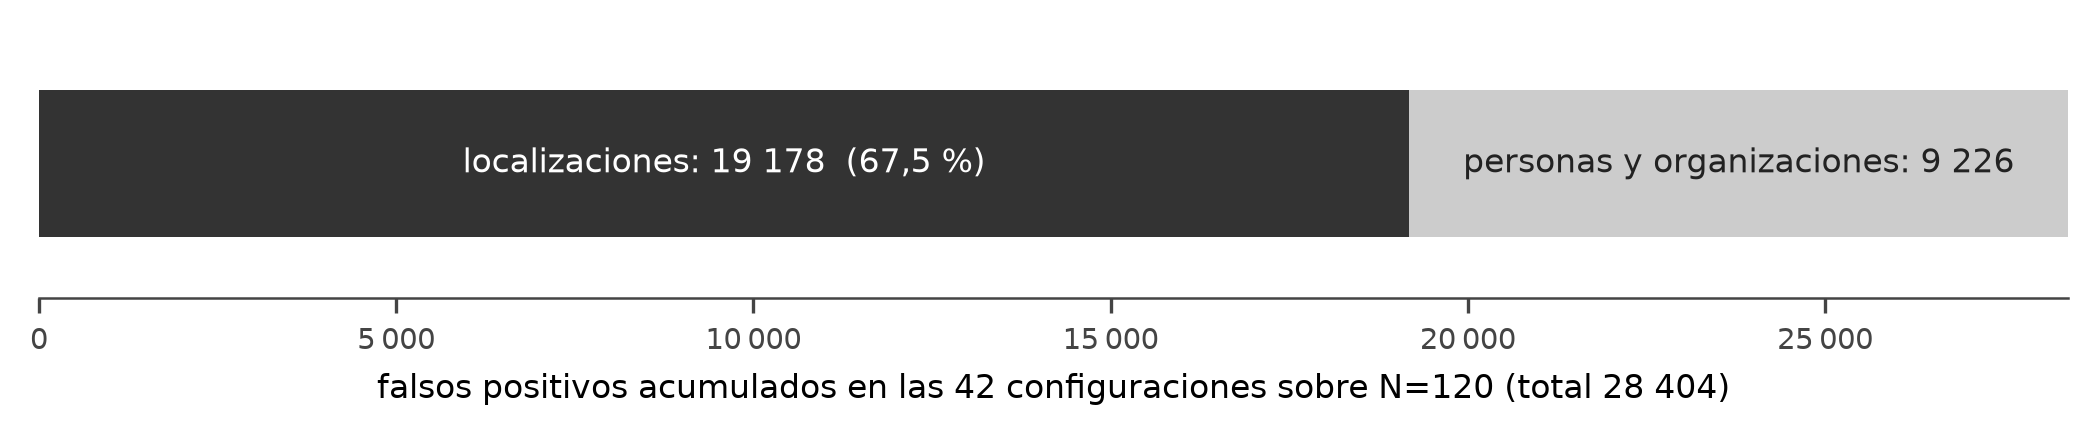
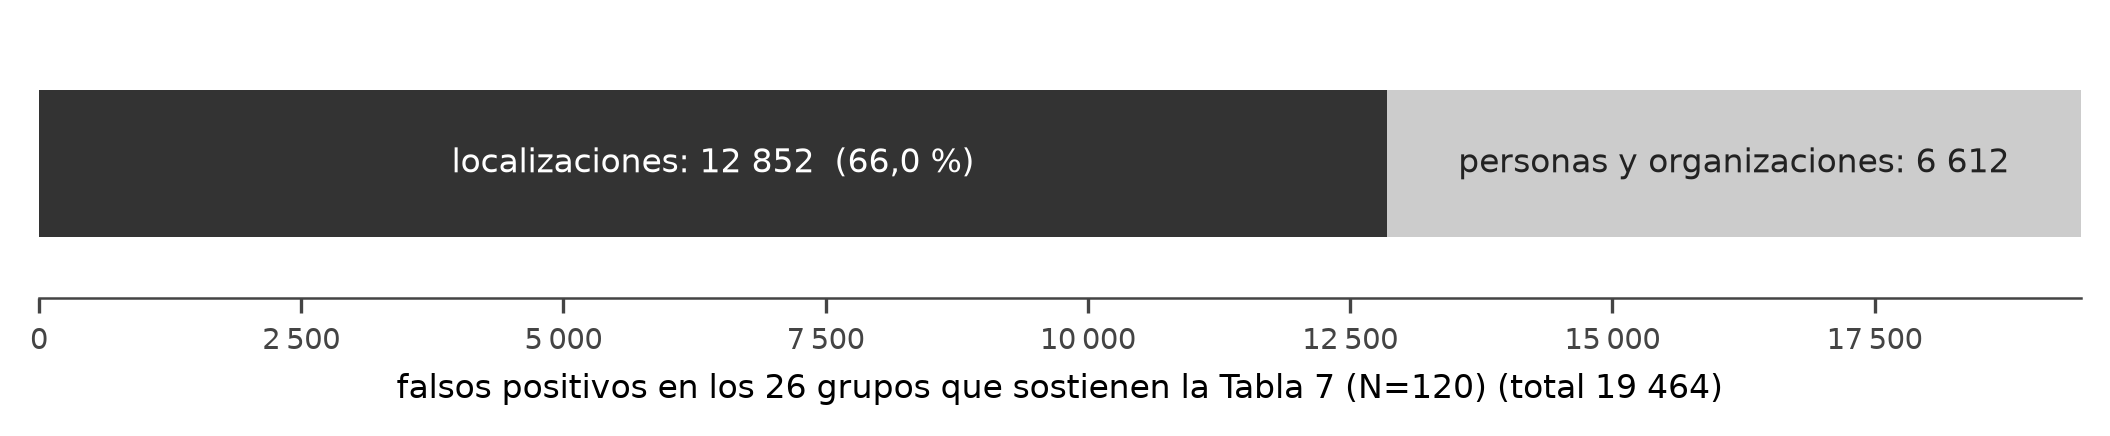
fix(thesis): unificar la composicion de los falsos positivos, que daba dos cifras
Al inventariar que afirmaciones del informe dependen de los datos que la
re-corrida va a sustituir aparecio que el documento decia dos cosas distintas
sobre la misma magnitud: 19.178 de 28.404 (67,5 %) en 3.3, en 7.2 y en la leyenda
de la Figura 1, y 20.946 de 32.201 (65,0 %) en el Anexo I.

Ninguna de las dos describe el estudio publicado. La del anexo es correcta para
lo que dice medir, pero cubre 42 configuraciones e incluye corridas despues
declaradas invalidas, entre ellas la de gemma4:12b-mlx con KB RAG que el modo de
razonamiento arruino, con F1 14,60. La otra no se ha podido reproducir desde
ningun artefacto del repositorio.

Recalculada sobre los 26 grupos que sostienen la Tabla 7, tomando para cada uno
la corrida que el consolidado usa realmente y con los 26 cubiertos sin omitir
ninguno: 12.852 de 19.464 falsos positivos, el 66,0 %, proceden de las
localizaciones, cuya suma de aciertos y omisiones vale cero. Queda trazable en
results/COMPOSICION_FP_20260908 con el desglose por grupo.

Corregidos 3.3 y 7.2, regenerada la Figura 1, y el Anexo I conserva su 65,0 % con
una glosa que explica que cubre otra poblacion. Las dos son ciertas sobre lo que
miden; lo que faltaba era decirlo.

Quedan registrados dos tropiezos propios del calculo, porque ilustran el riesgo:
la primera version sumaba cero de las corridas cuya estructura no reconocia y
acerto de casualidad, y al diagnosticarlo imprimi las claves de un registro
[…]

diff --git a/tools/generar_figuras_informe.py b/tools/generar_figuras_informe.py
@@ -95,18 +95,19 @@ def figura_1():
 def figura_2():
     """Composicion de los falsos positivos del estudio (§4.4)."""
     fig, ax = plt.subplots(figsize=(7.1, 1.5))
-    loc, total = 19178, 28404
+    # Cifras de results/COMPOSICION_FP_20260908/, sobre los 26 grupos que sostienen la Tabla 7.
+    loc, total = 12852, 19464
     otros = total - loc
     ax.barh([0], [loc], color='#333333', edgecolor='none', height=0.55)
     ax.barh([0], [otros], left=[loc], color='#cccccc', edgecolor='none', height=0.55)
-    ax.text(loc / 2, 0, f'localizaciones: {loc:,}'.replace(',', ' ') + '  (67,5 %)',
+    ax.text(loc / 2, 0, f'localizaciones: {loc:,}'.replace(',', ' ') + '  (66,0 %)',
             ha='center', va='center', color='white', fontsize=8)
     ax.text(loc + otros / 2, 0, f'personas y organizaciones: {otros:,}'.replace(',', ' '),
             ha='center', va='center', color='#222222', fontsize=8)
     ax.set_xlim(0, total)
     ax.set_ylim(-0.5, 0.5)
     ax.set_yticks([])
-    ax.set_xlabel(f'falsos positivos acumulados en las 42 configuraciones sobre N=120 '
+    ax.set_xlabel(f'falsos positivos en los 26 grupos que sostienen la Tabla 7 (N=120) '
                   f'(total {total:,})'.replace(',', ' '), fontsize=8)
     for s in ('top', 'right', 'left'):
         ax.spines[s].set_visible(False)

diff --git a/doc/organized/Hito_5_Tarea4_Informe_Final/2026-07-04_Borrador-Informe-Final-Tesina.md b/doc/organized/Hito_5_Tarea4_Informe_Final/2026-07-04_Borrador-Informe-Final-Tesina.md
@@ -224,11 +224,11 @@ La elección del umbral es un compromiso: por debajo se admiten emparejamientos 
 
 Sobre esa base se calculan precisión, exhaustividad y F1 por artículo, que después se promedian, y una **tasa de alucinación** que mide algo distinto de las anteriores: no compara con la anotación de referencia sino con el **texto de origen**. Una entidad se considera alucinada cuando no aparece literalmente en el artículo y, además, su mejor similitud contra las ventanas deslizantes del texto (del mismo número de palabras que la entidad) queda por debajo de **70**, umbral deliberadamente más laxo que el 85 del emparejamiento. La distinción importa: una entidad correctamente extraída del artículo pero ausente de la anotación de referencia cuenta como falso positivo, no como alucinación, porque el modelo no la inventó. El módulo incorpora además la validación estadística: ANOVA de una vía para contrastar si las diferencias entre modelos y modos son significativas, pruebas post-hoc de Tukey HSD para identificar qué pares concretos difieren, intervalos de confianza al 95 % por grupo y un análisis de sensibilidad que recalcula las métricas excluyendo los artículos atípicamente largos, con el fin de comprobar que ningún resultado depende de unos pocos casos extremos.
 
-Un tercer límite, de naturaleza distinta a los anteriores porque no procede del cotejo sino del diseño, afecta a la comparabilidad de las cifras absolutas. Los prompts del sistema solicitan tres categorías de entidad, personas, organizaciones y localizaciones, mientras que los registros con los que se tomaron las medidas de este informe anotaban únicamente las dos primeras: el campo de localizaciones estaba vacío en los ciento veinte. Conviene precisar dónde se pierde, porque no es donde parece: CoNLL-2002, que aporta 105 de los 120 artículos, **sí anota localizaciones** —etiqueta cuatro tipos, personas, organizaciones, lugares y misceláneos—, y es el conversor del proyecto el que las descarta, al filtrar las etiquetas por `["PER", "ORG"]` durante el análisis y escribir después la lista de localizaciones como constante vacía. El defecto es de la cadena de preparación de datos, no de la anotación de origen. Como el evaluador puntúa las tres categorías, toda localización que el modelo devuelve se contabiliza como falso positivo, sin que exista ninguna forma de acertar en ella. El efecto no es menor: el **67,5 %** de los falsos positivos del estudio, 19 178 de 28 404, proceden de esa categoría, según recoge la Figura 1. Conviene subrayar que se trata de una penalización exclusivamente de precisión, porque al no haber localizaciones anotadas tampoco puede haber omisiones: la exhaustividad no varía en ninguna configuración. Por esa razón este informe acompaña cada resultado de una segunda medición, restringida a las categorías que el corpus efectivamente anota, que se obtiene reagregando los desgloses por tipo ya almacenados y no requiere repetir la inferencia. Las cifras originales se conservan íntegras junto a ella, de modo que el lector pueda juzgar el alcance de la corrección; la Tabla del Anexo I recoge ambas para las cuarenta y dos configuraciones medidas sobre el corpus N=120. El defecto está corregido en el corpus desde el 8 de septiembre de 2026: recuperadas de CoNLL-2002 las localizaciones que su anotación ya traía y anotados a mano los quince artículos restantes, el fichero pasa a tener 545 localizaciones en 119 de los 120 registros, y el único que queda sin ninguna no menciona ningún lugar. Las cifras de este informe son anteriores a esa corrección y se conservan tal como se midieron; sustituirlas exige volver a inferir, que es lo que hará la re-corrida pendiente.
+Un tercer límite, de naturaleza distinta a los anteriores porque no procede del cotejo sino del diseño, afecta a la comparabilidad de las cifras absolutas. Los prompts del sistema solicitan tres categorías de entidad, personas, organizaciones y localizaciones, mientras que los registros con los que se tomaron las medidas de este informe anotaban únicamente las dos primeras: el campo de localizaciones estaba vacío en los ciento veinte. Conviene precisar dónde se pierde, porque no es donde parece: CoNLL-2002, que aporta 105 de los 120 artículos, **sí anota localizaciones** —etiqueta cuatro tipos, personas, organizaciones, lugares y misceláneos—, y es el conversor del proyecto el que las descarta, al filtrar las etiquetas por `["PER", "ORG"]` durante el análisis y escribir después la lista de localizaciones como constante vacía. El defecto es de la cadena de preparación de datos, no de la anotación de origen. Como el evaluador puntúa las tres categorías, toda localización que el modelo devuelve se contabiliza como falso positivo, sin que exista ninguna forma de acertar en ella. El efecto no es menor: el **66,0 %** de los falsos positivos del estudio, 12 852 de 19 464, proceden de esa categoría, según recoge la Figura 1. La cifra cubre los veintiséis grupos que sostienen la Tabla 7 y está desglosada por grupo en `results/COMPOSICION_FP_20260908/`. Conviene subrayar que se trata de una penalización exclusivamente de precisión, porque al no haber localizaciones anotadas tampoco puede haber omisiones: la exhaustividad no varía en ninguna configuración. Por esa razón este informe acompaña cada resultado de una segunda medición, restringida a las categorías que el corpus efectivamente anota, que se obtiene reagregando los desgloses por tipo ya almacenados y no requiere repetir la inferencia. Las cifras originales se conservan íntegras junto a ella, de modo que el lector pueda juzgar el alcance de la corrección; la Tabla del Anexo I recoge ambas para las cuarenta y dos configuraciones medidas sobre el corpus N=120. El defecto está corregido en el corpus desde el 8 de septiembre de 2026: recuperadas de CoNLL-2002 las localizaciones que su anotación ya traía y anotados a mano los quince artículos restantes, el fichero pasa a tener 545 localizaciones en 119 de los 120 registros, y el único que queda sin ninguna no menciona ningún lugar. Las cifras de este informe son anteriores a esa corrección y se conservan tal como se midieron; sustituirlas exige volver a inferir, que es lo que hará la re-corrida pendiente.
 
 ![Composición de los falsos positivos del estudio según la categoría de entidad](../../figuras/falsos-positivos.png)
 
-_Figura 1. Composición de los falsos positivos del estudio sobre N=120. Dos de cada tres proceden de una categoría que el corpus no anota y en la que, por tanto, ningún modelo podía acertar. Elaboración propia_
+_Figura 1. Composición de los falsos positivos del estudio sobre N=120, en los veintiséis grupos que sostienen la Tabla 7. Dos de cada tres proceden de una categoría que el corpus no anota y en la que, por tanto, ningún modelo podía acertar. Elaboración propia a partir de `results/COMPOSICION_FP_20260908/`_
 
 ## 4. Diseño experimental
 
@@ -512,7 +512,7 @@ De ahí se sigue tanto la explicación del fracaso de la primera versión como u
 8. Recuperación de las localizaciones que el conversor descarta (Prioridad Alta): los prompts del sistema solicitan
    tres categorías de entidad, personas, organizaciones y localizaciones, pero ninguno de los tres corpus anota
    la tercera. Como se explica en §3.3, eso convierte toda localización correctamente identificada en un falso
-   positivo, y de ahí procede el 67,5 % de los falsos positivos del estudio. La medición restringida a las dos
+   positivo, y de ahí procede el 66,0 % de los falsos positivos del estudio. La medición restringida a las dos
    categorías anotadas, que este informe publica en paralelo, corrige el efecto sin reejecutar inferencia, pero
    no sustituye a la solución de fondo. Y esa solución es más barata de lo que parece: para 105 de los 120
    artículos las localizaciones **ya están anotadas** en CoNLL-2002 y basta con dejar de descartarlas al
@@ -1086,5 +1086,5 @@ temperatura 0,1, tamaño de lote y los demás— coinciden en las ocho corridas 
 
 Tres advertencias de lectura antes de las cifras. Las columnas publicadas se toman del campo almacenado por registro, que es lo que publican las tablas del cuerpo, y las restringidas se recalculan desde el desglose por tipo. En `nemotron-mini:4b_baseline` los dos no cuadran en **siete de sus ciento veinte registros**, los que se reextrajeron fuera del arnés de lotes tras un fallo de contexto (§5.3.1), de modo que su columna restringida arrastra esa incoherencia y conviene leerla con esa reserva. Las dos primeras filas de `llama3.2:latest` reproducen **la misma medición** bajo dos etiquetas de corrida: coinciden en los siete valores y, comprobado registro a registro, en los aciertos y errores de los ciento veinte artículos, de modo que la tabla tiene cuarenta y dos filas pero cuarenta y una configuraciones distintas. Y las dos filas de `gemma4:12b-mlx` proceden de `afectados_thinking_n120_REMOTO` y no de `benchmark_n120_REMOTO`, porque esta última quedó averiada por el modo de razonamiento —sesenta y ocho y noventa y ocho de sus ciento veinte registros no recuperan ninguna entidad— y sus cifras no representan la capacidad del modelo.
 
-En conjunto, 20946 de los 32201 falsos positivos del estudio (65.0 %) proceden de la categoría no anotada. El mejor modelo local sobre este corpus, `gemma4:31b-mlx`, pasa de 62,67 % a **76,55 %** de F1 y supera el umbral de 70 % que fija la hipótesis sobre material periodístico mayoritariamente en español. La variante en la nube del mismo modelo conserva su ventaja (80,42 % frente a 76,55 %), de modo que la corrección **no** altera la conclusión sobre la comparación entre ejecución local y alojada.
+En conjunto, 20 946 de los 32 201 falsos positivos de estas **cuarenta y dos configuraciones** (65,0 %) proceden de la categoría no anotada. La cifra no coincide con el 66,0 % que da §3.3 porque cubre una población distinta: esta tabla incluye configuraciones que el estudio no publica, entre ellas corridas después sustituidas por inválidas. Ambas son ciertas sobre lo que dicen medir. El mejor modelo local sobre este corpus, `gemma4:31b-mlx`, pasa de 62,67 % a **76,55 %** de F1 y supera el umbral de 70 % que fija la hipótesis sobre material periodístico mayoritariamente en español. La variante en la nube del mismo modelo conserva su ventaja (80,42 % frente a 76,55 %), de modo que la corrección **no** altera la conclusión sobre la comparación entre ejecución local y alojada.
 

diff --git a/FINDINGS.md b/FINDINGS.md
@@ -1919,3 +1919,50 @@ localizaciones de referencia frente a las 1 034 de N=120.
 **Qué hacer.** Nada en el informe todavía. Cuando estén los trece modelos: rehacer el consolidado, mirar el
 post-hoc y **reformular §5.3.1 con lo que digan los datos**, sea cual sea. Si la tesis de la proporcionalidad
 inversa sobrevive con otra redacción, se conserva; si no, se dice.
+
+---
+
+## §F69 — El informe daba dos cifras distintas para la composición de los falsos positivos, y ninguna era la del estudio
+
+**Fecha:** 2026-09-08. Encontrado al inventariar qué afirmaciones dependen de los datos que la re-corrida va
+a sustituir.
+
+El informe decía en dos sitios cosas distintas sobre la misma magnitud:
+
+| Dónde | Cifra | Origen |
+|:---|:---|:---|
+| §3.3, §7.2 y la leyenda de la Figura 1 | 19 178 de 28 404 = **67,5 %** | **ninguno**: no aparece en ningún artefacto de datos del repositorio |
+| Anexo I | 20 946 de 32 201 = **65,0 %** | `results/CORRECCION_LOCATIONS_20260908`, sobre **42 configuraciones** |
+
+**Ninguna de las dos describe el estudio publicado.** La segunda es correcta para lo que dice medir, pero
+cubre 42 configuraciones e incluye corridas después declaradas inválidas, entre ellas
+`gemma4:12b-mlx_kb_rag` con F1 14,60, la que el modo de razonamiento arruinó (`§F62`). La primera no se ha
+podido reproducir desde ningún dato.
+
+**Recalculado sobre los 26 grupos que sostienen la Tabla 7**, tomando para cada uno la corrida que el
+consolidado usa realmente, y con los 26 cubiertos sin omitir ninguno:
+
+| Categoría | Falsos positivos | tp + fn |
+|:---|---:|---:|
+| Locations | **12 852** | **0** |
+| Organizations | 5 132 | 21 301 |
+| Persons | 1 480 | 15 664 |
+| **Total** | **19 464** | |
+
+La cifra del estudio es **12 852 de 19 464, el 66,0 %**. Queda trazable en
+`results/COMPOSICION_FP_20260908/`, con el desglose por grupo.
+
+**Corregido en el informe:** §3.3 y §7.2 pasan a 66,0 %, la Figura 1 se regeneró con las cifras nuevas, y el
+Anexo I **conserva su 65,0 %** con una glosa que explica que cubre una población distinta. Las dos cifras son
+ciertas sobre lo que cada una mide; lo que faltaba era decirlo.
+
+**Dos tropiezos propios durante el cálculo**, que ilustran lo fácil que es equivocarse aquí:
+
+1. La primera versión del recuento no filtraba bien por grupo y **sumaba cero** de las corridas cuya
+   estructura no reconocía, sin avisar. Dio 66,0 % por casualidad, no por acierto.
+2. Al diagnosticarlo, imprimí las claves de un registro con `list(r)[:12]` y concluí que no traía
+   `metrics`, cuando era la **decimotercera**. Estuve a punto de dar por bueno que aquella corrida no tenía
+   desglose por tipo.
+
+De ahí que el cálculo definitivo **declare cuántos grupos cubre**, igual que las comprobaciones del
+verificador: «26 de 26, ninguno sin cubrir» es lo que permite fiarse del total.

diff --git a/repos/ner-llm-entity-benchmark/results/COMPOSICION_FP_20260908/README.md b/repos/ner-llm-entity-benchmark/results/COMPOSICION_FP_20260908/README.md
@@ -1,0 +1,32 @@
+# Composición de los falsos positivos del estudio publicado (26 grupos)
+
+**2026-09-08.** Calculado desde los `detailed_results.json`, **sin reejecutar inferencia**.
+
+Cubre los **26 grupos** —trece modelos en sus dos modos— que sostienen la Tabla 7 del informe, tomando para
+cada uno la corrida que el consolidado `ANALISIS_CONJUNTO_20260907` usa realmente. Los 26 quedan cubiertos;
+ninguno se omite en silencio.
+
+| Categoría | Falsos positivos | Aciertos | Omisiones | tp + fn |
+|:---|---:|---:|---:|---:|
+| Locations | **12 852** | 0 | 0 | **0** |
+| Organizations | 5 132 | 10 479 | 10 822 | 21 301 |
+| Persons | 1 480 | 9 880 | 5 784 | 15 664 |
+| **Total** | **19 464** | | | |
+
+**12 852 de 19 464 falsos positivos, el 66,0 %, proceden de las localizaciones**, categoría cuyo `tp + fn`
+agregado vale **cero**: no había ni una entidad de referencia en todo el corpus, de modo que ningún modelo
+podía acertar en ella. Es el indicador de `FINDINGS §F53`.
+
+## Por qué existe este artefacto
+
+El informe daba **dos cifras distintas** para esta misma magnitud: 19 178 de 28 404 (67,5 %) en §3.3, §7.2 y
+la leyenda de la Figura 1, y 20 946 de 32 201 (65,0 %) en el Anexo I. Ninguna de las dos describe el estudio
+publicado:
+
+- El **65,0 %** procede de `results/CORRECCION_LOCATIONS_20260908`, que cubre **42 configuraciones** e
+  incluye corridas después declaradas inválidas —entre ellas `gemma4:12b-mlx_kb_rag` con F1 14,60, la que el
+  modo de razonamiento arruinó—. Es correcto para lo que dice medir, pero no es «el estudio».
+- El **67,5 %** no aparece en ningún artefacto de datos del repositorio. No se ha podido reproducir.
+
+Este fichero fija la cifra que corresponde al estudio publicado y la deja trazable, con el desglose por grupo
+en `composicion_fp_26_grupos.json`.
